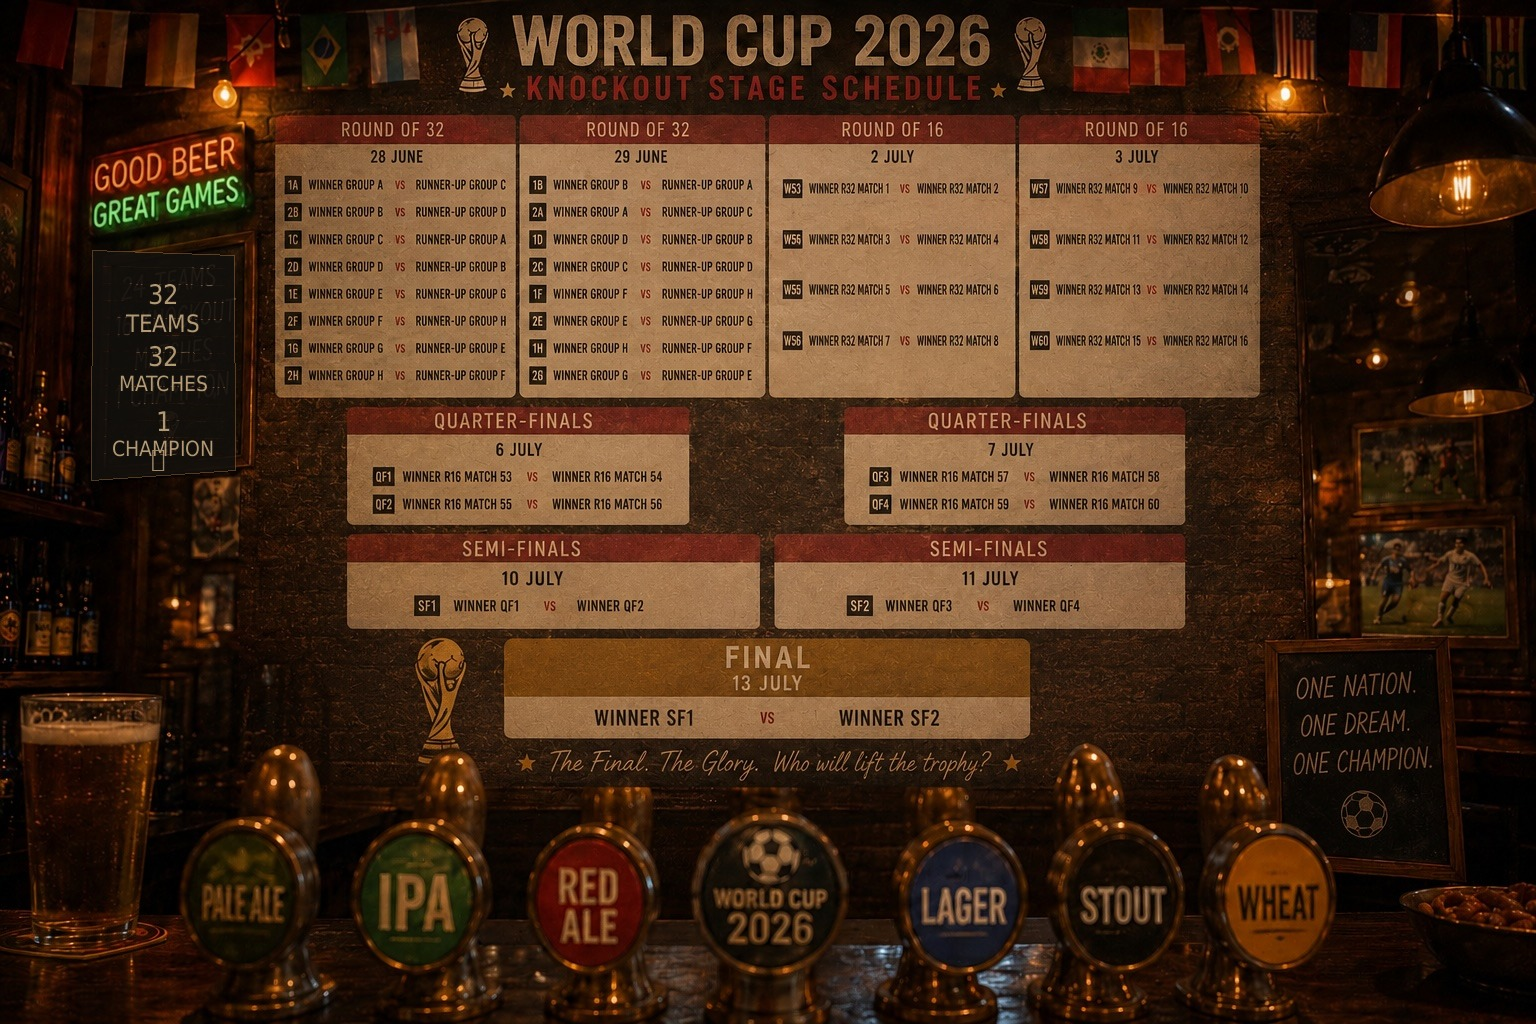
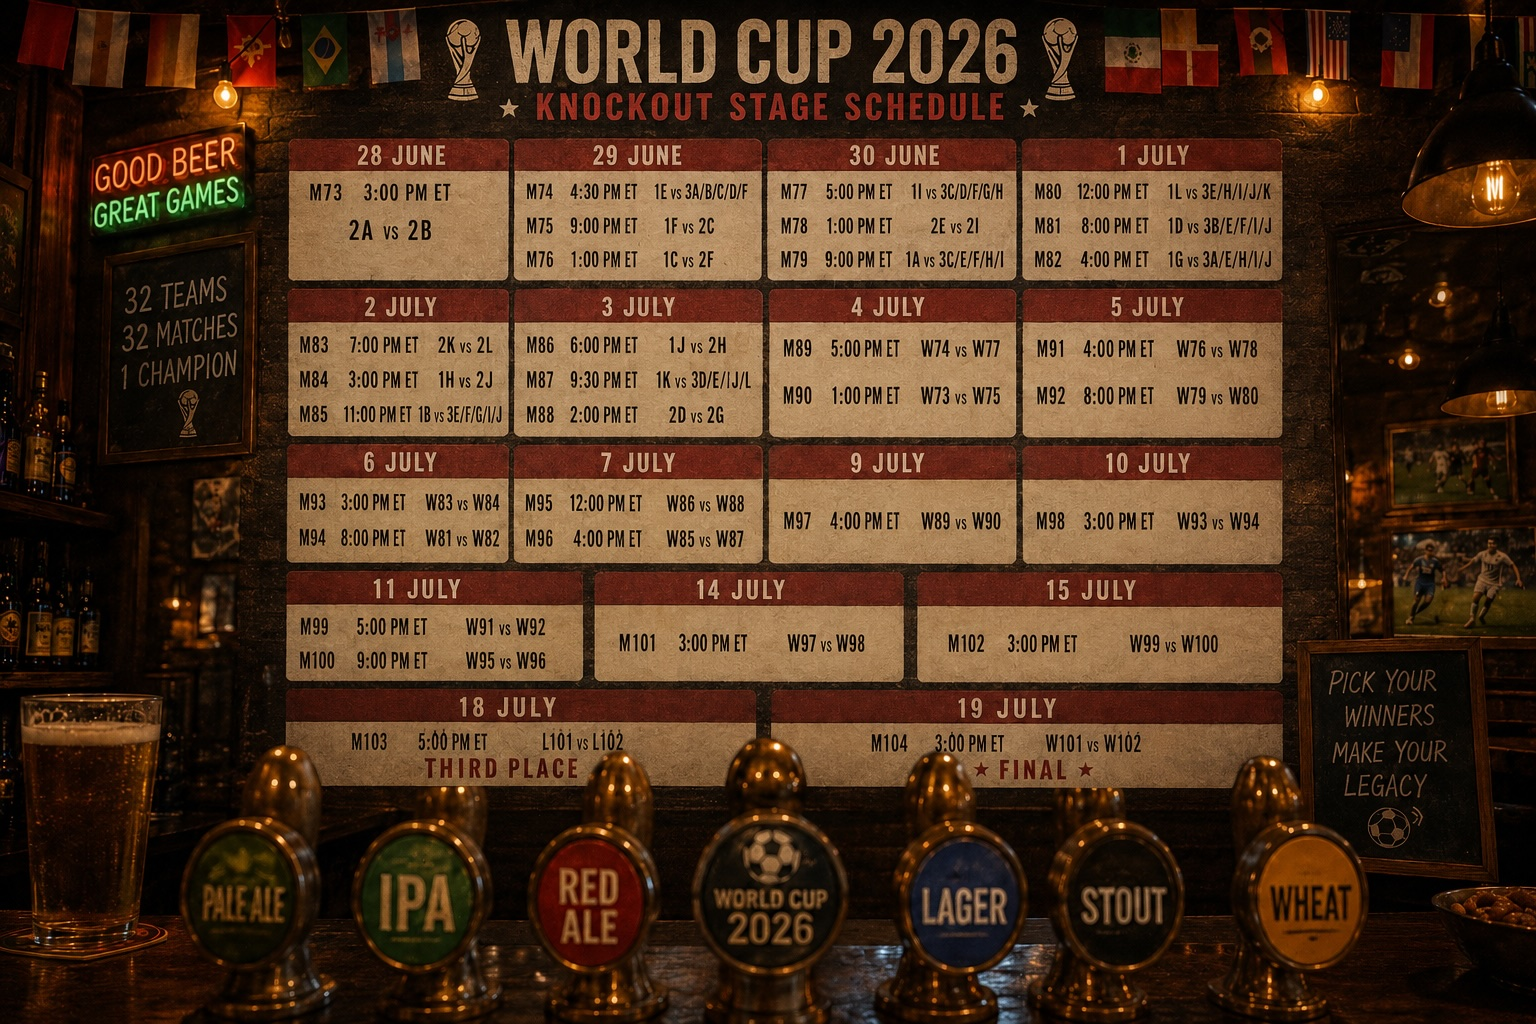
Publish WC2026 Pages snapshot

diff --git a/js/app.js b/js/app.js
@@ -58,6 +58,44 @@ function setupRulesPanel(root) {
   });
 }
 
+
+const ACTIVE_GAME_BACKGROUND_IMAGES = Object.freeze({
+  "game-1": "assets/board/pub_background_game1.jpeg",
+  "game-2": "assets/board/knockout_pub_background.jpeg",
+});
+
+function selectedDevGameValue(root) {
+  const selected = root.querySelector(".dev-game-selector-option input:checked");
+  return selected?.value || "game-1";
+}
+
+function syncActiveGameBackground(root) {
+  const background = root.querySelector(".board-background-layer");
+  if (!background) return;
+
+  const active = selectedDevGameValue(root);
+  const nextBackground =
+    ACTIVE_GAME_BACKGROUND_IMAGES[active] || ACTIVE_GAME_BACKGROUND_IMAGES["game-1"];
+
+  const current = background.getAttribute("src") || "";
+  if (current !== nextBackground) {
+    background.setAttribute("src", nextBackground);
+  }
+}
+
+function setupActiveGameBackground(root) {
+  syncActiveGameBackground(root);
+
+  root.addEventListener("change", (event) => {
+    if (
+      event.target instanceof HTMLInputElement &&
+      event.target.closest(".dev-game-selector-option")
+    ) {
+      syncActiveGameBackground(root);
+    }
+  });
+}
+
 async function main() {
   const root = document.querySelector("[data-wc2026-app]");
   if (!root) {
@@ -67,6 +105,7 @@ async function main() {
   setupRulesPanel(root);
   const model = await createBracketModel();
   const view = createBracketView(root);
+  setupActiveGameBackground(root);
   const controller = createBracketController({ model, view });
   const authService = createSupabaseAuthService();
   const identitySurface = createSupabaseIdentitySurface({ root, authService });

diff --git a/index.html b/index.html
@@ -4,11 +4,11 @@
   <meta charset="utf-8">
   <meta name="viewport" content="width=device-width, initial-scale=1">
   <title>WC2026 Bracket Tracker</title>
-  <link rel="preload" as="image" href="assets/board/pub_background.jpeg">
+  <link rel="preload" as="image" href="assets/board/pub_background_game1.jpeg">
   <link rel="preload" as="image" href="assets/board/gameboard.svg">
-  <link rel="stylesheet" href="css/app.css?v=zoom-runtime-7414af9">
-  <link rel="stylesheet" href="css/board.css?v=zoom-runtime-7414af9">
-  <link rel="stylesheet" href="css/dev.css?v=zoom-runtime-7414af9">
+  <link rel="stylesheet" href="css/app.css?v=active-game-background">
+  <link rel="stylesheet" href="css/board.css?v=active-game-background">
+  <link rel="stylesheet" href="css/dev.css?v=active-game-background">
 </head>
 <body>
   <main id="wc2026-app" class="wc2026-app" data-wc2026-app>
@@ -108,6 +108,6 @@
       <section class="status-panel" data-status-panel aria-live="polite"></section>
     </section>
   </main>
-  <script type="module" src="js/app.js?v=zoom-runtime-7414af9"></script>
+  <script type="module" src="js/app.js?v=active-game-background"></script>
 </body>
 </html>

diff --git a/js/mvc/view.js b/js/mvc/view.js
@@ -129,7 +129,7 @@ export function createBracketView(root) {
     boardNativeSize = nativeSize;
     applyBoardRenderScale(boardScale);
     boardPlane.innerHTML = `
-      <img class="board-background-layer" src="assets/board/pub_background.jpeg" alt="" aria-hidden="true">
+      <img class="board-background-layer" src="assets/board/pub_background_game1.jpeg" alt="" aria-hidden="true">
       <img class="board-linework-layer" src="assets/board/gameboard.svg" alt="" aria-hidden="true">
       <div class="board-pick-layer" data-pick-layer></div>
       <div class="board-menu-layer" data-menu-layer></div>

diff --git a/js/services/assetPaths.js b/js/services/assetPaths.js
@@ -1,5 +1,5 @@
 const BOARD_TRUTH_RESOURCES = Object.freeze({
-  backgroundImage: "assets/board/pub_background.jpeg",
+  backgroundImage: "assets/board/pub_background_game1.jpeg",
     svgGameboardDefinition: "assets/board/gameboard.svg",
   geometryManifest: "data/geometry/gameboard_manifest.json",
 });